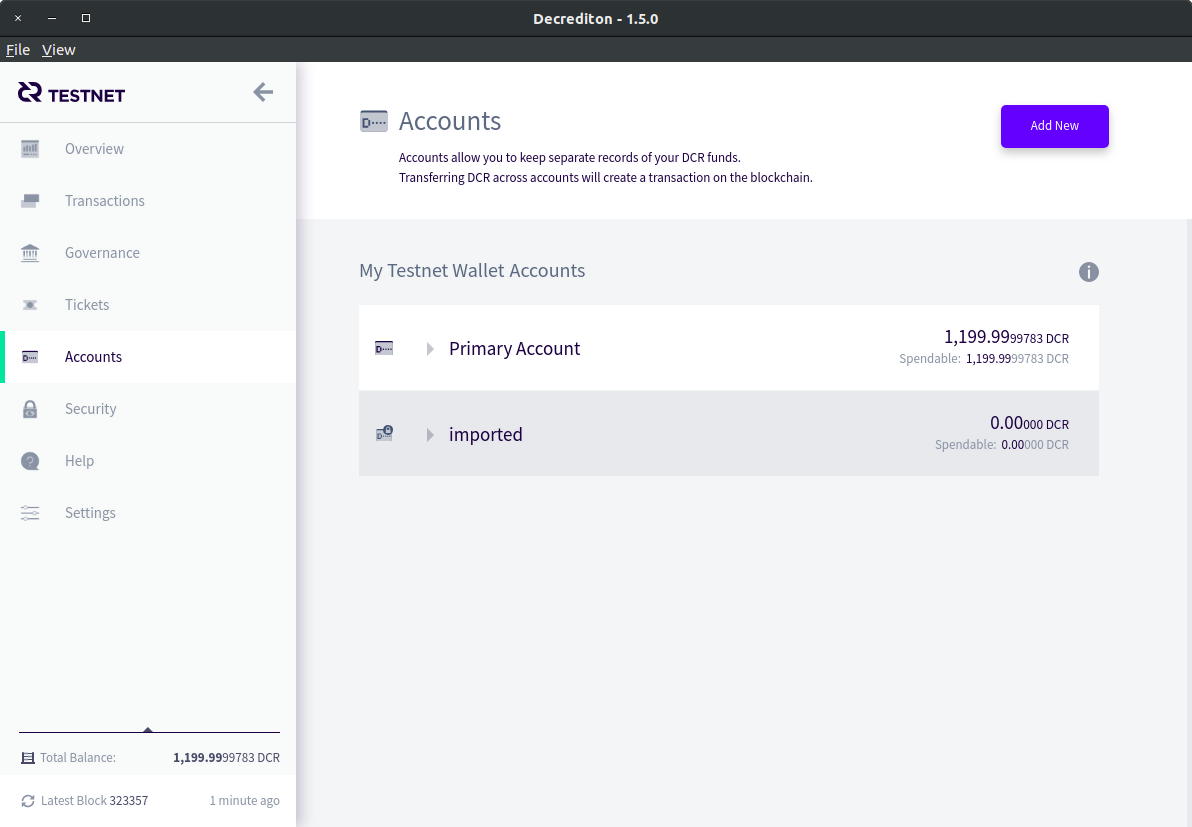
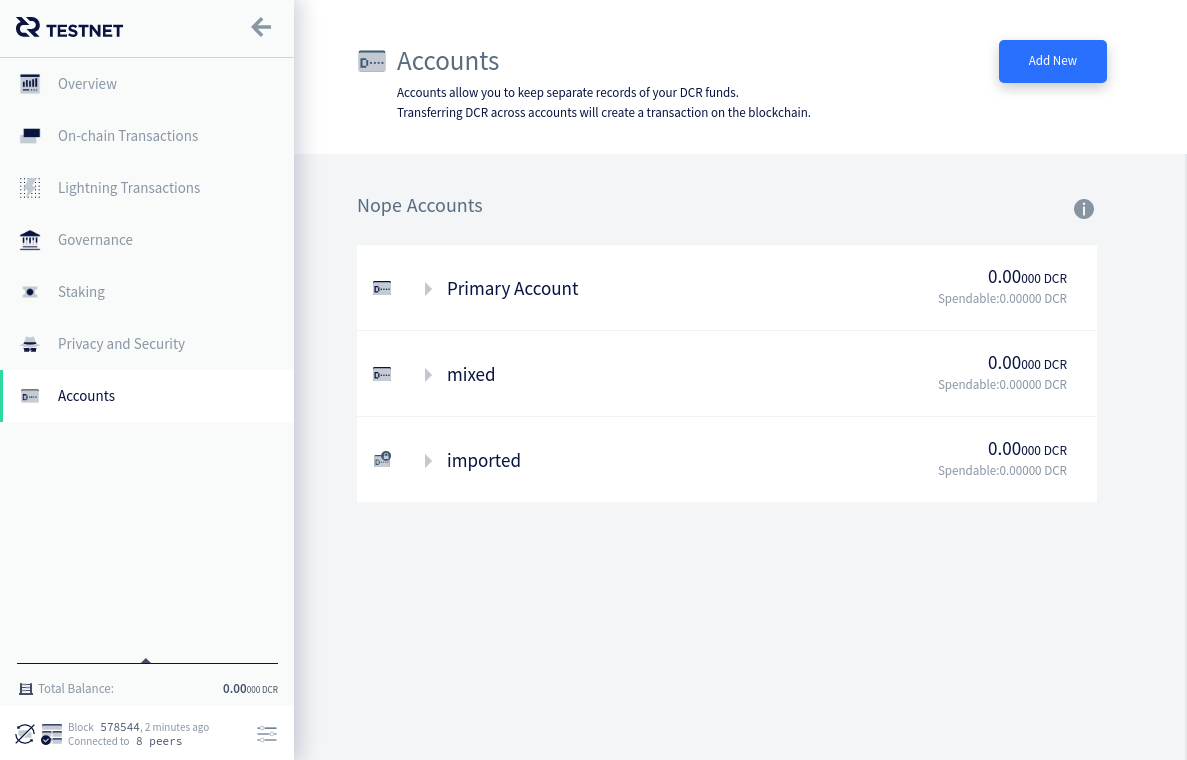
Decrediton

diff --git a/docs/wallets/decrediton/using-decrediton.md b/docs/wallets/decrediton/using-decrediton.md
@@ -16,15 +16,15 @@ The main menu of Decrediton is displayed on the left side of the window, and it 
 
 The overview tab gives a quick summary of your total DCR (available and locked in tickets) and a list of recent transactions.
 
-Graphs of your balance, ticket and transaction over the last two weeks can be viewed here.
+Graphs of your balance, ticket activity and transaction history over the last two weeks can be viewed here.
 
 ![Overview Tab](/img/decrediton/overview.png)
 
 ---
 
-## Transactions
+## On-chain Transactions
 
-The transactions tab is split into four sections:
+The on-chain transactions tab is split into four sections:
 
 ### Send
 
@@ -40,7 +40,6 @@ Once you have entered the details of your transaction, the estimated fee and tra
 
 This is where you can generate wallet addresses to give to other people so they can
 send you DCR. The address is displayed in the blue text box - it's the line that starts with Ds, or Ts on testnet. Simply choose the account you want funds to go to and select the **Generate New Address** button.
-You can select the clipboard icon to copy the address and share it with the person sending you DCR.
 Decred addresses can be used as many times as you want, but for privacy reasons it's best to generate a new one for each transaction. There's around 1.4E48 (that's 14 followed by 47 zeroes) addresses available so you don't need to worry about running out.
 
 ![Receive Tab](/img/decrediton/receive.png)
@@ -57,6 +56,8 @@ This tab shows a list of all transactions that have occurred involving this wall
 This tab shows allows you to export your transaction history in a .csv format. You can choose the data you wish to export, select a location to output the generated file, and then press the **Export** button.
 
 ![Export Tab](/img/decrediton/export-transactions.png)
+
+<!-- TODO add Lightning Transactions here -->
 
 ---
 
@@ -83,17 +84,11 @@ voting preferences if you change your mind about an agenda.
 
 ---
 
-## Tickets
+## Staking
 
-The tickets tab is split into four sections:
+The staking tab is split into four sections:
 
-### Purchase
-
-Before you can purchase tickets you must first import the API key from your [VSP account](../../proof-of-stake/how-to-stake.md#pos-using-a-voting-service-provider-vsp).
-
-![Tickets Tab](/img/decrediton/tickets.png)
-
-Once you have done this, the "Purchase Tickets" tab becomes active.
+### Purchase Tickets
 
 ![Purchase Tickets page](/img/decrediton/purchase-tickets.png)
 
@@ -103,35 +98,25 @@ The total number of tickets you currently own is at the top of the page:
 - **Immature Tickets** - Mined tickets which cannot vote until a 256 block maturing period has passed (around 20 hours)
 - **Live Tickets** - Mature tickets eligible to be called to vote
 
-#### Backup redeem script
-
-Now is a good time to back up your VSPs multi-sig voting script (or "redeem script"). 
-
---8<-- "script-warning.md"
-
-Click on the gear icon next to your VSP. Then click on the donut icon that appears.
-
-![Purchase Tickets page](/img/decrediton/redeem-script.png)
-
-This will bring up your VSP's configuration details. Copy the string of characters in the `Script` field and store them in a safe location. 
-
-![Purchase Tickets page](/img/decrediton/redeem-script-field.png)
-
 #### Purchasing tickets
 
-In order to purchase tickets you just need to select which account to purchase tickets from, how many tickets you want to buy, and then press the **Purchase** button.
+In order to purchase tickets you just need to select which account to purchase tickets from, how many tickets you want to buy, select a VSP to use, and then press the **Purchase** button.
 
 The "Automatic Ticket Buyer" panel allows you to enable the automated ticket buyer - Decrediton will continually buy tickets for you for as long as you keep it running. You can configure how the ticket buyer works using the options:
 
 ![Automatic Purchase panel](/img/decrediton/autobuyer.png)
 
-- **From** - Funds to purchase tickets will come from this account
 - **VSP** - Which VSP to purchase tickets with
+- **From** - Funds to purchase tickets will come from this account
 - **Balance to maintain** - If your balance is lower than this number, you will not buy tickets. The default of 0 will use all the funds in your account to buy tickets
 
-### My Tickets
+### Tickets Status
 
-This tab shows a summary of all of the tickets your wallet has ever purchased. Filters and sorting options are available to make browsing the list easier.
+This tab shows a summary of all of your immature and live tickets. Filters and sorting options are available to make browsing the list easier.
+
+### Historic Tickets
+
+This tab shows a summary of all of your tickets which voted, expired or were missed. Filters and sorting options are available to make browsing the list easier.
 
 ### Statistics
 
@@ -141,22 +126,11 @@ This page displays various statistics about all of the available VSPs. The dropd
 
 ---
 
-## Accounts
+## Privacy and Security
 
-The accounts tab shows you the accounts in your wallet and allows you to add new ones.
-Accounts in Decred work just like bank accounts.
-They allow you to keep separate records of your DCR. This feature is most
-useful for those who run businesses and wish to keep separate accounts for
-tax records for example. Transferring DCR across accounts will create a
-transaction on the blockchain.
+<!-- TODO add Privacy here -->
 
-![Accounts Tab](/img/decrediton/accounts.png)
-
----
-
-## Security
-
-The Security tab offers two key features - the ability to sign and verify messages using your private key, and the ability to validate addresses.
+The Security Center tab offers two key features - the ability to sign and verify messages using your private key, and the ability to validate addresses.
 
 ![Security Tab](/img/decrediton/security.png)
 
@@ -176,11 +150,16 @@ A Decred address can be entered into the Validate Address text box, and Decredit
 
 ---
 
-## Help
+## Accounts
 
-The help tab contains links to get help using Decrediton and to learn more about Decred. There are also links to our various communication platforms. The Tutorials section contains introductions to the ticket lifecycle and how Decred's proof-of-stake system works. It is also possible to view logs of the `dcrd`, `dcrwallet` and `decrediton` processes in the Logs section.
+The accounts tab shows you the accounts in your wallet and allows you to add new ones.
+Accounts in Decred work just like bank accounts.
+They allow you to keep separate records of your DCR. This feature is most
+useful for those who run businesses and wish to keep separate accounts for
+tax records for example. Transferring DCR across accounts will create a
+transaction on the blockchain.
 
-![Help Tab](/img/decrediton/help.png)
+![Accounts Tab](/img/decrediton/accounts.png)
 
 ---
 

diff --git a/docs/wallets/decrediton/decrediton-troubleshooting.md b/docs/wallets/decrediton/decrediton-troubleshooting.md
@@ -102,6 +102,20 @@ Perform the same steps as described in ["Cannot see all my coins"](#cannot-see-a
 
 ## Debugging Other Errors
 
-If you can start the wallet but get error messages when performing an operation, then the first thing is to verify the wallet logs from within Decrediton. Access the Help -> Logs page and look for any ERR messages:
+If you can start the wallet but get error messages when performing an operation, then the first thing is to verify the wallet logs from within Decrediton. Access the Settings -> Logs page and look for any ERR messages:
 
 ![Logs Page](/img/decrediton/troubleshooting/logs.png)
+
+## How to backup VSP redeem script
+
+Now is a good time to back up your VSPs multi-sig voting script (or "redeem script"). 
+
+--8<-- "script-warning.md"
+
+Click on the gear icon next to your VSP. Then click on the donut icon that appears.
+
+![Purchase Tickets page](/img/decrediton/redeem-script.png)
+
+This will bring up your VSP's configuration details. Copy the string of characters in the `Script` field and store them in a safe location. 
+
+![Purchase Tickets page](/img/decrediton/redeem-script-field.png)

diff --git a/docs/wallets/decrediton/decrediton-setup.md b/docs/wallets/decrediton/decrediton-setup.md
@@ -85,7 +85,7 @@ A large progress bar on this screen shows the progress of the blockchain downloa
 
     This means you can download the blockchain in multiple sessions if required.
 
-You can begin to set up your wallet before the download completes. You have two options:
+When the download has completed you can set up your wallet. You have two options:
 
 1. [Create a New Wallet](#create-a-new-wallet) - Press this button if this is your first time using Decred.
 
@@ -130,5 +130,3 @@ Press **Create Wallet** and your wallet setup is complete. You will be taken bac
 1. Select **Create Wallet**. Wait for the blockchain to be downloaded.
 
 1. The blockchain will now be scanned for any transactions belonging to this wallet.
-
-1. If you need to reconnect to your Voting Service Provider (VSP), you'll need to re-import your VSP API key, as described in the Tickets section on the [Using Decrediton](using-decrediton.md) page. 

diff --git a/docs/getting-started/using-the-block-explorer.md b/docs/getting-started/using-the-block-explorer.md
@@ -7,7 +7,8 @@
 All blocks and transactions on the Decred blockchain
 are visible through the use of the block explorer, [dcrdata](https://github.com/decred/dcrdata).
 
-* Networks
+Public instances of dcrdata are available for the following networks:
+
 - [mainnet](https://dcrdata.decred.org)
 - [testnet](https://testnet.decred.org)
 
